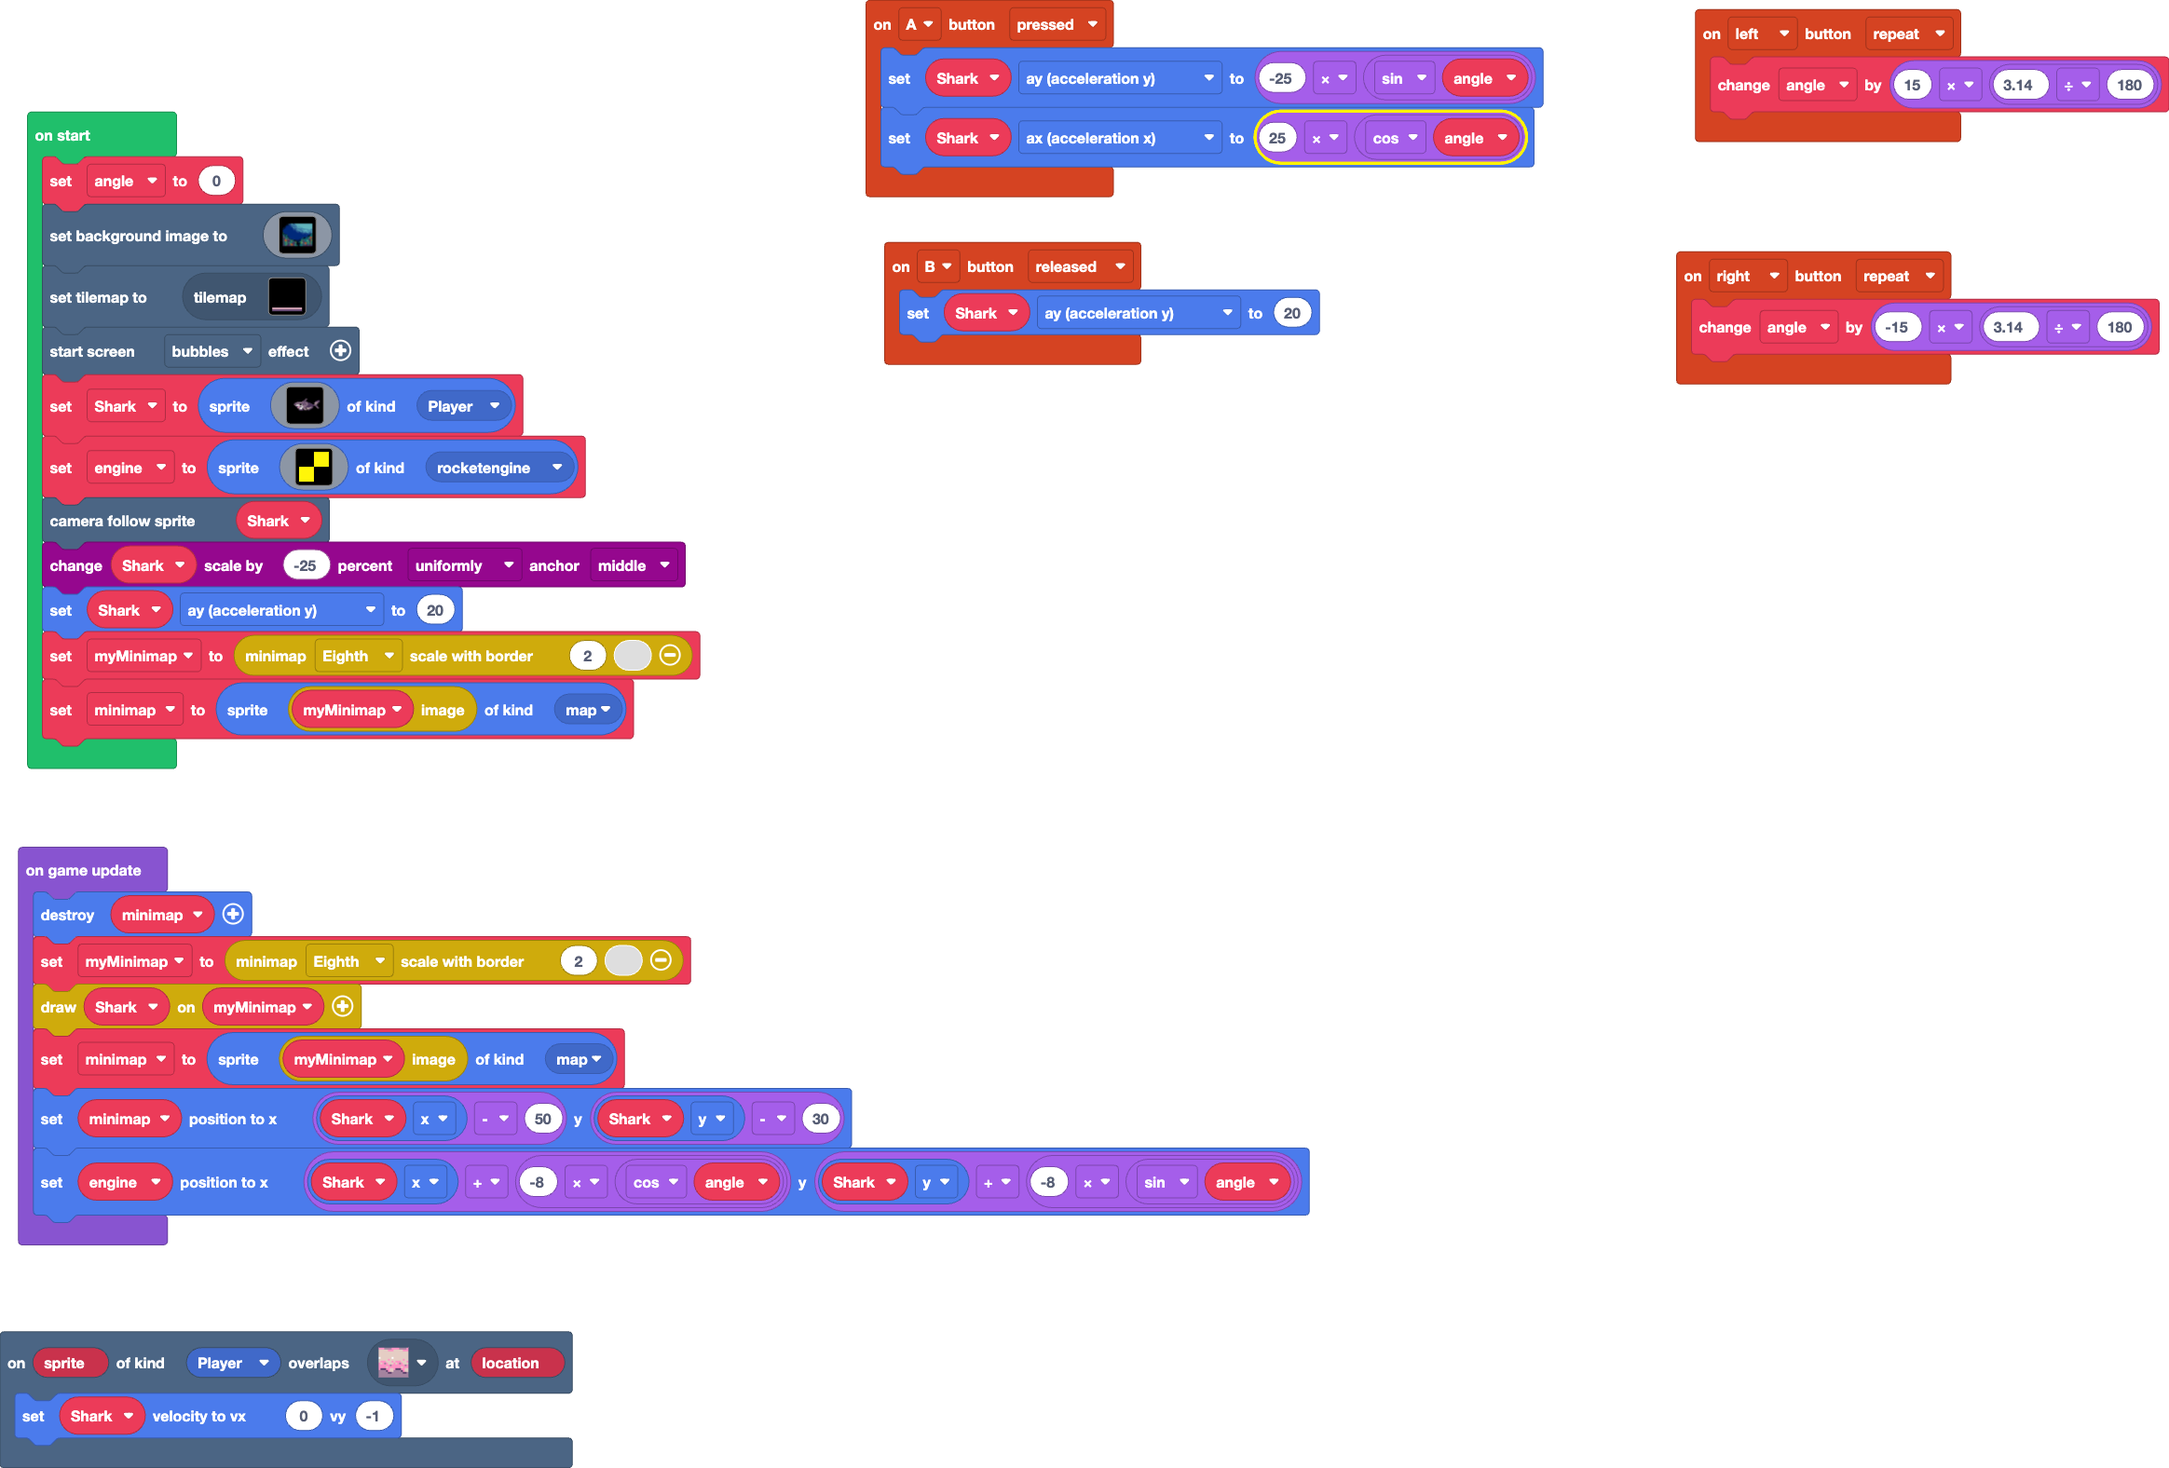
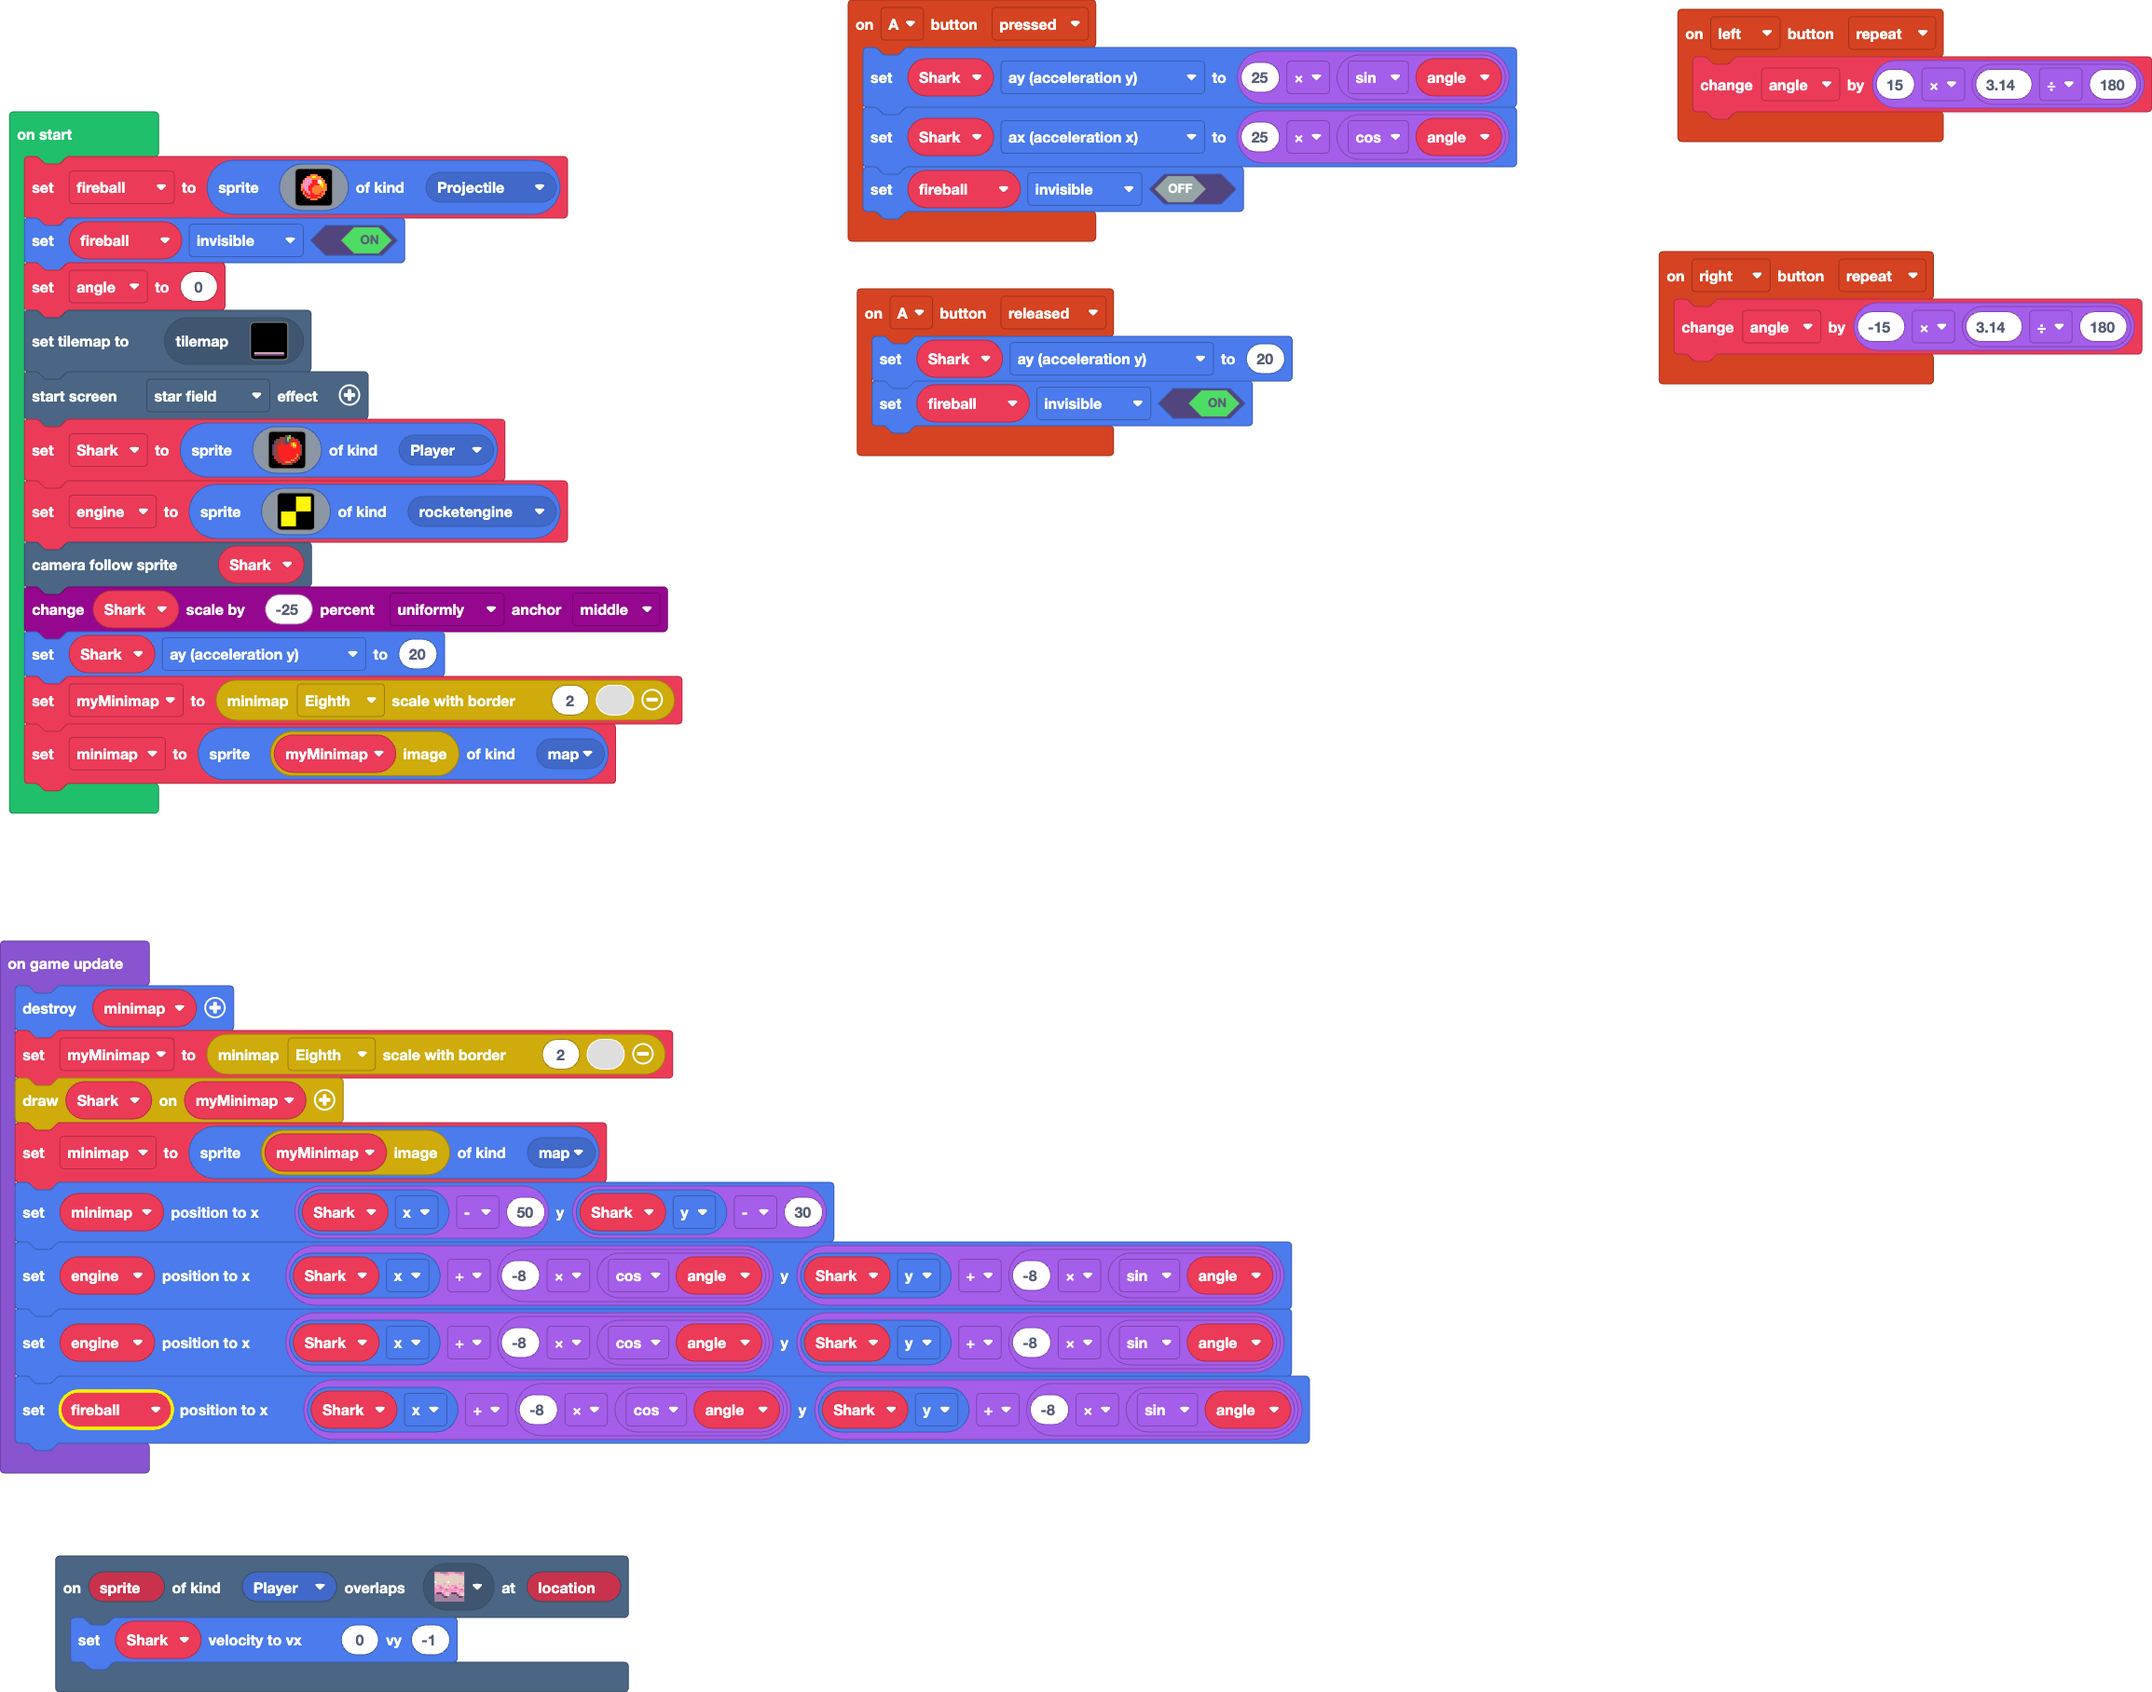
fireball finished

diff --git a/main.ts b/main.ts
@@ -3,165 +3,65 @@ namespace SpriteKind {
     export const rocketengine = SpriteKind.create()
 }
 controller.A.onEvent(ControllerButtonEvent.Pressed, function () {
-    Shark.ay = -25 * Math.sin(angle)
+    Shark.ay = 25 * Math.sin(angle)
     Shark.ax = 25 * Math.cos(angle)
+    fireball.setFlag(SpriteFlag.Invisible, false)
 })
 controller.right.onEvent(ControllerButtonEvent.Repeated, function () {
     angle += -15 * (3.14 / 180)
 })
+controller.A.onEvent(ControllerButtonEvent.Released, function () {
+    Shark.ay = 20
+    fireball.setFlag(SpriteFlag.Invisible, true)
+})
 scene.onOverlapTile(SpriteKind.Player, sprites.builtin.oceanSand6, function (sprite, location) {
     Shark.setVelocity(0, -1)
-})
-controller.B.onEvent(ControllerButtonEvent.Released, function () {
-    Shark.ay = 20
 })
 controller.left.onEvent(ControllerButtonEvent.Repeated, function () {
     angle += 15 * (3.14 / 180)
 })
 let Shark: Sprite = null
 let angle = 0
+let fireball: Sprite = null
+fireball = sprites.create(img`
+    . . . . . . . . . . . . . . . . 
+    . . . . . . 4 4 4 4 . . . . . . 
+    . . . . 4 4 4 5 5 4 4 4 . . . . 
+    . . . 3 3 3 3 4 4 4 4 4 4 . . . 
+    . . 4 3 3 3 3 2 2 2 1 1 4 4 . . 
+    . . 3 3 3 3 3 2 2 2 1 1 5 4 . . 
+    . 4 3 3 3 3 2 2 2 2 2 5 5 4 4 . 
+    . 4 3 3 3 2 2 2 4 4 4 4 5 4 4 . 
+    . 4 4 3 3 2 2 4 4 4 4 4 4 4 4 . 
+    . 4 2 3 3 2 2 4 4 4 4 4 4 4 4 . 
+    . . 4 2 3 3 2 4 4 4 4 4 2 4 . . 
+    . . 4 2 2 3 2 2 4 4 4 2 4 4 . . 
+    . . . 4 2 2 2 2 2 2 2 2 4 . . . 
+    . . . . 4 4 2 2 2 2 4 4 . . . . 
+    . . . . . . 4 4 4 4 . . . . . . 
+    . . . . . . . . . . . . . . . . 
+    `, SpriteKind.Projectile)
+fireball.setFlag(SpriteFlag.Invisible, true)
 angle = 0
-scene.setBackgroundImage(img`
[36 lines of base64/hex data omitted]
-    6888888888888888888888888888888888888888888888888888888888888888898888888898888999998888999999999998888999999998899999999999999999999999999988888888888888888888
-    6888888888888888888888888888888888888888888888888888888888888888888888888888988889999988888899999999988888999999998899999999999999999999999999999999999999999999
-    6688888888888888888888888888888888888888888888888888888888888888888888888888899888889999998888999999999988888999999998899999999999999999999999999999999999999999
[81 lines of base64/hex data omitted]
-    `)
 tiles.setCurrentTilemap(tilemap`level1`)
-effects.bubbles.startScreenEffect()
+effects.starField.startScreenEffect()
 Shark = sprites.create(img`
-    ..................fffff.............
-    .................ffbbf..............
-    ................ffbbff..............
-    ..............ffcbbcf............ccc
-    ........fffffffbccccff.........ccbbc
-    ......ffbbbbbbbbbbbbbcfff.....cdbbc.
-    ....ffbbbbbbbbbcbcbbbbcccff..cddbbf.
-    ....fbcbbbbbffbbcbcbbbcccccfffdbbf..
-    ....fbbb1111ff1bcbcbbbcccccccbbbcf..
-    .....fb11111111bbbbbbcccccccccbccf..
-    ......fccc33cc11bbbbccccccccfffbbcf.
-    .......fc131c111bbbcccccbdbc...fbbf.
-    ........f33c111cbbbfdddddcc.....fbbf
-    .........ff1111fbdbbfddcc........fff
-    ...........cccccfbdbbfc.............
-    .................fffff..............
+    . . . . . . . e c 7 . . . . . . 
+    . . . . e e e c 7 7 e e . . . . 
+    . . c e e e e c 7 e 2 2 e e . . 
+    . c e e e e e c 6 e e 2 2 2 e . 
+    . c e e e 2 e c c 2 4 5 4 2 e . 
+    c e e e 2 2 2 2 2 2 4 5 5 2 2 e 
+    c e e 2 2 2 2 2 2 2 2 4 4 2 2 e 
+    c e e 2 2 2 2 2 2 2 2 2 2 2 2 e 
+    c e e 2 2 2 2 2 2 2 2 2 2 2 2 e 
+    c e e 2 2 2 2 2 2 2 2 2 2 2 2 e 
+    c e e 2 2 2 2 2 2 2 2 2 2 4 2 e 
+    . e e e 2 2 2 2 2 2 2 2 2 4 e . 
+    . 2 e e 2 2 2 2 2 2 2 2 4 2 e . 
+    . . 2 e e 2 2 2 2 2 4 4 2 e . . 
+    . . . 2 2 e e 4 4 4 2 e e . . . 
+    . . . . . 2 2 e e e e . . . . . 
     `, SpriteKind.Player)
 let engine = sprites.create(img`
     f 5 
@@ -179,4 +79,6 @@ game.onUpdate(function () {
     minimap2 = sprites.create(minimap.getImage(myMinimap), SpriteKind.map)
     minimap2.setPosition(Shark.x - 50, Shark.y - 30)
     engine.setPosition(Shark.x + -8 * Math.cos(angle), Shark.y + -8 * Math.sin(angle))
+    engine.setPosition(Shark.x + -8 * Math.cos(angle), Shark.y + -8 * Math.sin(angle))
+    fireball.setPosition(Shark.x + -8 * Math.cos(angle), Shark.y + -8 * Math.sin(angle))
 })

diff --git a/tilemap.g.ts b/tilemap.g.ts
@@ -24,6 +24,25 @@ namespace myTiles {
 . . . . . . . . . . . . . . . . 
 . . . . . . . . . . . . . . . . 
 `, [myTiles.transparency16,sprites.builtin.oceanSand6,sprites.builtin.oceanSand10], TileScale.Sixteen);
+            case "level2":
+            case "level2":return tiles.createTilemap(hex`1000100000000000000000000000000000000000000000000000000000000000000000000000000000000000000000000000000000000000000000000000000000000000000000000000000000000000000000000000000000000000000000000000000000000000000000000000000000000000000000000000000000000000000000000000000000000000000000000000000000000000000000000000000000000000000000000000000000000000000000000000000000000000000000000000000000000000000000000000000000000000000000000000000000000000000000000000000000000000000000000000000000000000000000000000000000000000`, img`
+. . . . . . . . . . . . . . . . 
+. . . . . . . . . . . . . . . . 
+. . . . . . . . . . . . . . . . 
+. . . . . . . . . . . . . . . . 
+. . . . . . . . . . . . . . . . 
+. . . . . . . . . . . . . . . . 
+. . . . . . . . . . . . . . . . 
+. . . . . . . . . . . . . . . . 
+. . . . . . . . . . . . . . . . 
+. . . . . . . . . . . . . . . . 
+. . . . . . . . . . . . . . . . 
+. . . . . . . . . . . . . . . . 
+. . . . . . . . . . . . . . . . 
+. . . . . . . . . . . . . . . . 
+. . . . . . . . . . . . . . . . 
+. . . . . . . . . . . . . . . . 
+`, [myTiles.transparency16], TileScale.Sixteen);
         }
         return null;
     })
